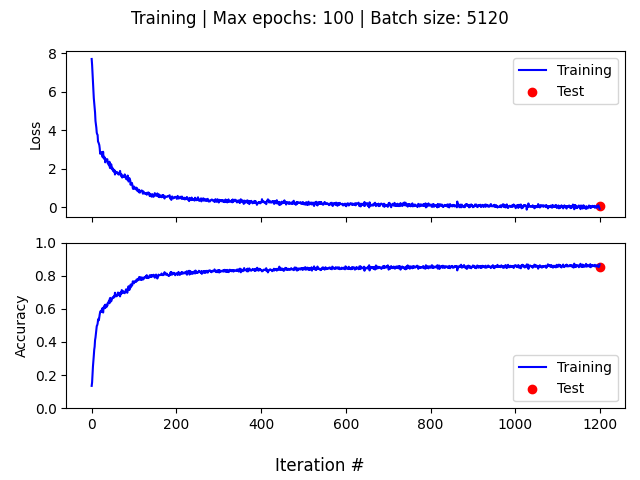
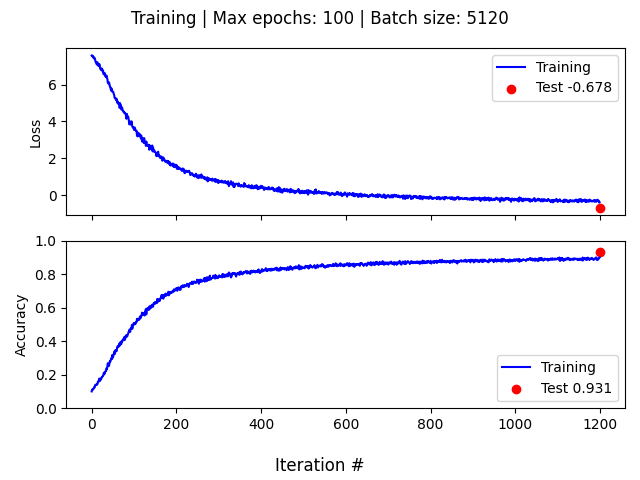
0.931 ACC was achieved

diff --git a/classify_mnist.py b/classify_mnist.py
@@ -1,6 +1,6 @@
 #!/usr/bin/env python3
 # -*- coding: utf-8 -*-
-# Time-stamp: "2021-11-05 02:53:50 (ywatanabe)"
+# Time-stamp: "2021-11-05 04:32:50 (ywatanabe)"
 
 import os
 
@@ -43,6 +43,7 @@ class BayesianLinear(PyroModule):
         return self.bias + input @ self.weight  # this line samples bias and weight
 
 
+"""
 class BayesianPerceptron(PyroModule):
     def __init__(self, in_size, hidden_size, out_size, *args, **kwargs):
         assert len(args) == 0
@@ -61,6 +62,32 @@ class BayesianPerceptron(PyroModule):
         x = self.dropout_layer(x)
         x = self.act_func(x)
         x = self.fc2(x)
+        return x
+"""
+
+
+class BNN(PyroModule):
+    def __init__(self, in_size, hidden_size, out_size, *args, **kwargs):
+        assert len(args) == 0
+        assert len(kwargs) == 0
+
+        super().__init__()
+
+        self.fc1 = BayesianLinear(in_size, hidden_size)
+        self.fc2 = BayesianLinear(hidden_size, hidden_size)
+        self.fc3 = BayesianLinear(hidden_size, out_size)
+
+        self.dropout_layer = nn.Dropout(0.5)
+        self.act_func = nn.Sigmoid()  # nn.ReLU()
+
+    def forward(self, x):
+        x = self.fc1(x)
+        x = self.dropout_layer(x)
+        x = self.act_func(x)
+        x = self.fc2(x)
+        x = self.dropout_layer(x)
+        x = self.act_func(x)
+        x = self.fc3(x)
         return x
 
 
@@ -106,7 +133,7 @@ if __name__ == "__main__":
     DEVICE = "cuda"
     BATCH_SIZE = 5120
     IN_SIZE = 28 * 28  # MNIST
-    HIDDEN_SIZE = 1000
+    HIDDEN_SIZE = 100
     OUT_SIZE = 10
     MAX_EPOCHS = 100
 
@@ -143,7 +170,8 @@ if __name__ == "__main__":
     ################################################################################
     pyro.clear_param_store()
 
-    model = Model(BayesianPerceptron, IN_SIZE, HIDDEN_SIZE, OUT_SIZE).cuda()
+    # model = Model(BayesianPerceptron, IN_SIZE, HIDDEN_SIZE, OUT_SIZE).cuda()
+    model = Model(BNN, IN_SIZE, HIDDEN_SIZE, OUT_SIZE).cuda()
     guide = AutoNormal(model).cuda()
     svi = SVI(model, guide, Adam({"lr": 1e-2}), Trace_ELBO())
 
@@ -207,13 +235,17 @@ if __name__ == "__main__":
     ################################################################################
     fig, axes = plt.subplots(2, 1, sharex=True)
     axes[0].plot(losses_tra, label="Training", color="blue")
-    axes[0].scatter(len(losses_tra) - 1, loss_tes, label="Test", color="red")
+    axes[0].scatter(
+        len(losses_tra) - 1, loss_tes, label=f"Test {loss_tes:0.3g}", color="red"
+    )
     axes[0].set_ylabel("Loss")
     axes[0].legend()
 
     axes[1].plot(accs_tra, label="Training", color="blue")
     axes[1].set_ylabel("Accuracy")
-    axes[1].scatter(len(accs_tra) - 1, acc_tes, label="Test", color="red")
+    axes[1].scatter(
+        len(accs_tra) - 1, acc_tes, label=f"Test {acc_tes:0.3g}", color="red"
+    )
     axes[1].set_ylim([0, 1])
     axes[1].legend()
 

diff --git a/README.md b/README.md
@@ -3,7 +3,7 @@
 python classify_mnist.py
 ```
 
-# ACC was ~0.86.
+# 0.931 ACC was achieved.
 ![Learning curve](classify_mnist_learning_curve.png?raw=true "Learning curve")
 
 
